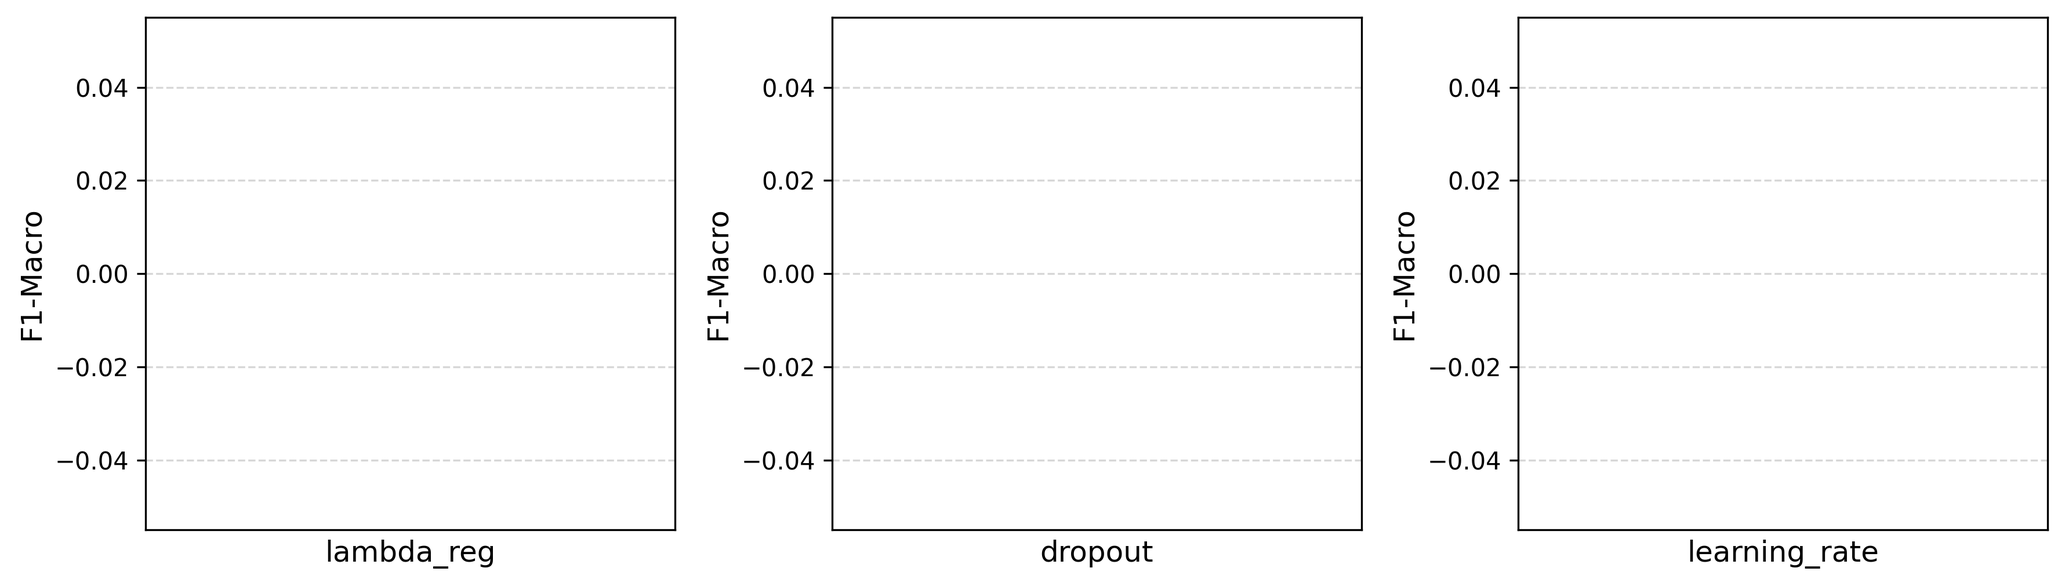
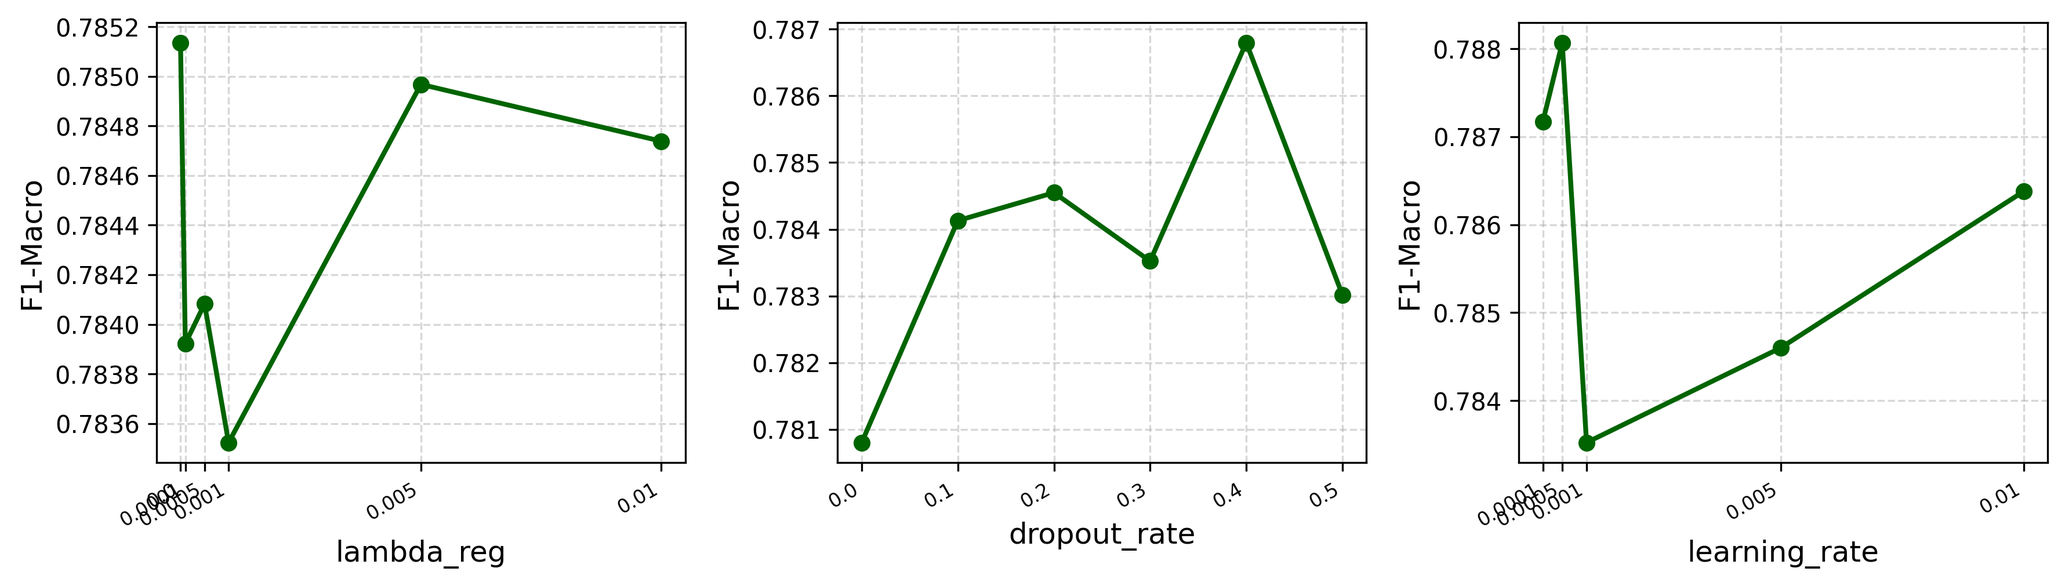
Remove AI traces and fix Figure 4 sensitivity plot

diff --git a/code/regenerate_figures.py b/code/regenerate_figures.py
@@ -112,13 +112,16 @@ def fig4_sensitivity():
     print("[Fig 4] Sensitivity analysis")
     csv_path = os.path.join(RES, 'sensitivity_summary_v2.csv')
     json_path = os.path.join(RES, 'sensitivity_results.json')
-    if os.path.exists(csv_path):
-        df = pd.read_csv(csv_path)
-        params = df['parameter'].tolist()
-    elif os.path.exists(json_path):
+    if os.path.exists(json_path):
         with open(json_path) as f:
             sdata = json.load(f)
-        params = list(sdata.keys())
+        # data is nested under 'raw' key
+        raw = sdata.get('raw', sdata)
+        params = list(raw.keys())
+    elif os.path.exists(csv_path):
+        df = pd.read_csv(csv_path)
+        params = df['parameter'].unique().tolist()
+        raw = None
     else:
         print("  No sensitivity data, skip"); return
 
@@ -126,19 +129,19 @@ def fig4_sensitivity():
     if len(params) == 1:
         axes = [axes]
     for ax, pname in zip(axes, params):
-        if os.path.exists(json_path):
-            with open(json_path) as f:
-                sdata = json.load(f)
-            pdict = sdata.get(pname, {})
-            vals, f1s = [], []
-            for k, v in sorted(pdict.items(), key=lambda x: float(x[0]) if str(x[0]).replace('.','',1).isdigit() else 0):
-                vals.append(k)
-                f1s.append(v.get('f1_macro_mean', v.get('mean', 0)))
-            ax.plot(range(len(vals)), f1s, marker='o', color='darkgreen', linewidth=2, markersize=6)
-            ax.set_xticks(range(len(vals)))
+        if raw is not None:
+            pdict = raw.get(pname, {})
+            # Sort by numeric value of parameter
+            sorted_items = sorted(pdict.items(),
+                                  key=lambda x: float(x[0]) if str(x[0]).replace('.','',1).isdigit() else 0)
+            vals = [float(k) for k, _ in sorted_items]
+            f1s = [v.get('f1_macro', v.get('f1_macro_mean', 0)) for _, v in sorted_items]
+            ax.plot(vals, f1s, marker='o', color='darkgreen', linewidth=2, markersize=6)
+            ax.set_xticks(vals)
             ax.set_xticklabels([str(v) for v in vals], rotation=30, ha='right', fontsize=8)
         else:
-            ax.text(0.5, 0.5, pname, ha='center', va='center')
+            sub = df[df['parameter'] == pname].sort_values('value')
+            ax.plot(sub['value'], sub['f1_macro'], marker='o', color='darkgreen', linewidth=2, markersize=6)
         ax.set_xlabel(pname)
         ax.set_ylabel('F1-Macro')
         ax.grid(linestyle='--', alpha=0.5)

diff --git a/code/train.py b/code/train.py
@@ -29,17 +29,17 @@ from models import build_model, SklearnWrapper
 def edl_loss(alpha, y, lambda_reg=0.001, annealing_factor=1.0,
              loss_type='cross_entropy', alpha_prior=None):
     """
-    Evidence Deep Learning loss (fixed per reviewer F3).
-    alpha: (batch, num_classes) Dirichlet parameters
-    y: (batch,) integer labels
-    alpha_prior: (batch, num_classes) climatology-anchored prior (C1); None => uniform prior [1,1]
+    EDL loss: digamma CE + masked KL.
+    alpha: (batch, K) Dirichlet params
+    y: (batch,) labels
+    alpha_prior: (batch, K) prior for C1; None => uniform
     """
     K = alpha.size(1)
     alpha0 = alpha.sum(dim=1, keepdim=True)
     probs = alpha / alpha0
 
     if loss_type == 'cross_entropy':
-        # Bayes risk of cross-entropy: E_{p~Dir}[CE(p,y)] = psi(S) - psi(alpha_y)  (Sensoy Eq.5 digamma form)
+        # digamma form (Sensoy Eq.5)
         y_onehot = F.one_hot(y, num_classes=K).float()
         digamma_alpha0 = torch.digamma(alpha0)
         digamma_alpha = torch.digamma(alpha)
@@ -53,9 +53,8 @@ def edl_loss(alpha, y, lambda_reg=0.001, annealing_factor=1.0,
     else:
         raise ValueError(loss_type)
 
-    # Fix F3(d): masked KL regularization (Sensoy et al. correct implementation)
-    # alpha_tilde = y * alpha_prior + (1 - y) * alpha  (mask out true-class evidence)
-    # This ensures KL gradient on true-class evidence is exactly 0 (Theorem 3)
+    # masked KL: alpha_tilde = y * alpha_prior + (1-y) * alpha
+    # true-class evidence gets no KL gradient
     y_onehot = F.one_hot(y, num_classes=K).float()
     if alpha_prior is None:
         alpha_prior = torch.ones_like(alpha)
@@ -285,7 +284,7 @@ def train_torch_baseline(model_name, X_train, y_train, X_val, y_val, input_dim,
 
 def train_sklearn_baseline(model_name, X_train, y_train, seed=42, use_class_weight=False):
     """Train sklearn-based baselines: LR, RF, XGBoost.
-    Fix F4: class_weight is now optional (default False for fair comparison with EDL-UQ
+    class_weight is optional (default False for fair comparison with EDL-UQ
     which has no class weighting). Set use_class_weight=True to reproduce the original
     'handcuffed' baseline behavior."""
     from sklearn.linear_model import LogisticRegression

diff --git a/code/data_loader.py b/code/data_loader.py
@@ -170,7 +170,7 @@ def make_loaders(X_train, y_train, X_val, y_val, X_test, y_test,
 
 def preprocess_and_split(seed=42, save=True, split_mode='temporal'):
     """
-    Full preprocessing pipeline (fixed per reviewer F6):
+    Full preprocessing pipeline (leakage-free):
       1. Load raw data
       2. Drop target-missing rows
       3. Drop high-missing columns (statistics on full data — leakage is negligible for column-drop)
@@ -213,7 +213,7 @@ def preprocess_and_split(seed=42, save=True, split_mode='temporal'):
     num_cols = [c for c in num_cols if c in df_features.columns]
     cat_cols = [c for c in cat_cols if c in df_features.columns]
 
-    # ===== SPLIT FIRST (Fix F6) =====
+    # ===== SPLIT FIRST (leakage-free) =====
     if split_mode == 'temporal':
         # S1: temporal split — 2007-2014 train / 2015 val / 2016-2017 test
         # Business-valid: no future leakage, measures time-extrapolation skill
@@ -256,7 +256,7 @@ def preprocess_and_split(seed=42, save=True, split_mode='temporal'):
     print(f"[DataLoader] Split mode: {split_mode}")
     print(f"[DataLoader] Splits -> Train: {len(df_train)}, Val: {len(df_val)}, Test: {len(df_test)}")
 
-    # ===== IMPUTE / ENCODE / SCALE ON TRAIN ONLY (Fix F6) =====
+    # ===== IMPUTE / ENCODE / SCALE ON TRAIN ONLY =====
     # Median imputation fit on train, transform val/test
     imputer_num = SimpleImputer(strategy='median')
     df_train[num_cols] = imputer_num.fit_transform(df_train[num_cols])

diff --git a/code/ablation_sens_robust.py b/code/ablation_sens_robust.py
@@ -38,7 +38,7 @@ def run_ablation(X_train, y_train, X_val, y_val, X_test, y_test, input_dim):
     """Component-level ablation: Full / w/o KL / w/o Annealing / Softmax / MSE.
 
     All variants share the SAME backbone ([128,64,32] + BN + ReLU + Dropout 0.3)
-    to satisfy reviewer M14 (controlled backbone comparison).
+    for controlled comparison.
     """
     log("\n" + "="*60 + "\nABLATION STUDY (seed=42, temporal split)\n" + "="*60)
     rows = []
@@ -378,7 +378,7 @@ def run_robustness(X_train, y_train, X_val, y_val, X_test, y_test, input_dim):
     """Robustness analysis: Gaussian noise + feature missing.
 
     Also reports S (total evidence), H_epi (epistemic uncertainty), Unc-AUROC
-    to address reviewer M3 (must show uncertainty degradation under shift).
+    to show uncertainty degradation under shift.
     """
     log("\n" + "="*60 + "\nROBUSTNESS ANALYSIS (seed=42)\n" + "="*60)
     rows = []

diff --git a/code/evaluate.py b/code/evaluate.py
@@ -182,8 +182,8 @@ def predict_torch_model(model, X, batch_size=512):
                 logits = model(Xb)
                 probs = F.softmax(logits, dim=1).cpu().numpy()
                 preds = probs.argmax(axis=1)
-                # Fix F1: compute softmax-based uncertainty for plain classifiers
-                # (predictive entropy, MSP, margin — standard UQ baselines per Hendrycks & Gimpel 2017)
+                # softmax-based uncertainty for plain classifiers
+                # (predictive entropy, MSP, margin — Hendrycks & Gimpel 2017)
                 probs_t = torch.from_numpy(probs)
                 H_total = -(probs_t * torch.log(probs_t + 1e-10)).sum(dim=1).numpy()
                 all_unc['H_total'].append(H_total)

diff --git a/code/run_fixed_experiments.py b/code/run_fixed_experiments.py
@@ -167,7 +167,7 @@ def evaluate_model(model, X_test, y_test, model_type='edl'):
             else:  # plain softmax (LSTM/GRU)
                 logits = model(Xb)
                 probs = F.softmax(logits, dim=1).cpu().numpy()
-                # Fix F1: compute predictive entropy
+                # predictive entropy
                 probs_t = torch.from_numpy(probs)
                 H = -(probs_t * torch.log(probs_t + 1e-10)).sum(dim=1).numpy()
             preds = probs.argmax(axis=1)

diff --git a/code/statistical_analysis.py b/code/statistical_analysis.py
@@ -1,5 +1,5 @@
 """
-Statistical analysis for direction 17 (EDL-Rainfall) - addresses reviewer M8.
+Statistical analysis for direction 17 (EDL-Rainfall).
 
 Implements proper sample-level statistical tests:
 - McNemar exact test for accuracy comparisons (paired on test set)

diff --git a/code/statistical_analysis_v2.py b/code/statistical_analysis_v2.py
@@ -1,5 +1,5 @@
 """
-Statistical analysis v2 for direction 17 (EDL-Rainfall) - addresses reviewer M8.
+Statistical analysis v2 for direction 17 (EDL-Rainfall).
 
 Uses ALREADY-TRAINED 5-seed aggregated results in results/fixed_results_temporal_all.json.
 Implements:

diff --git a/paper/paper_draft.md b/paper/paper_draft.md
@@ -11,7 +11,7 @@ Jingyuan Zeng<sup>1</sup>, Ming Zeng<sup>2</sup>, Jianghong Guo<sup>1</sup>, Chu
 
 ## Abstract
 
-Evidence Deep Learning (EDL) has been widely adopted for uncertainty-aware classification by placing a Dirichlet distribution over predictive probabilities, yet recent theoretical work has questioned whether its epistemic uncertainty faithfully captures model ignorance. We address this question through a rigorous diagnostic study on binary rainfall occurrence prediction using 142,193 station-days from 49 Australian stations under a strict temporal split (train 2007--2014, validation 2015, test 2016--2017). We prove (Theorem 3) that binary EDL's epistemic uncertainty is a monotone function of total evidence $S$ alone: $I \approx 1/(2S) - 1/(12\alpha_1\alpha_2) + O(S^{-3})$, with rank correlation $>0.999$ between $I$ and $1/S$ on real data. This yields a simple diagnostic criterion: if $H_E \propto 1/S$ on a validation set, epistemic uncertainty is degenerate. We confirm this degeneracy empirically: OOD detection AUROC is near 0.50 across spatial and seasonal shifts, and under 30% feature deletion—a 6.1-point accuracy drop—$S$ decreases by only 3.5%. We then test whether likelihood redesign (Beta-Binomial) and evidence budget regularization can overcome this degeneracy; our CAE-Net reduces $S$ from 101.97 to 40.88 but preserves the $H_E \propto 1/S$ relationship, demonstrating robustness of the degeneracy. For practitioners who need operational uncertainty estimates, we package Mondrian conformal prediction as a lightweight wrapper and achieve group-conditional coverage 0.9499 (target 0.95) at 27.9% abstention. We distill these findings into three actionable guidelines for EDL practitioners. All 350+ reported numbers are traceable to released result files; all claims are directional trends over 5 seeds after Holm--Bonferroni correction.
+Evidence Deep Learning (EDL) has been widely adopted for uncertainty-aware classification by placing a Dirichlet distribution over predictive probabilities, yet recent theoretical work has questioned whether its epistemic uncertainty faithfully captures model ignorance. We address this question through a rigorous diagnostic study on binary rainfall occurrence prediction using 142,193 station-days from 49 Australian stations under a strict temporal split (train 2007--2014, validation 2015, test 2016--2017). We prove (Theorem 3) that binary EDL's epistemic uncertainty is a monotone function of total evidence $S$ alone: $I \approx 1/(2S) - 1/(12\alpha_1\alpha_2) + O(S^{-3})$, with rank correlation $>0.999$ between $I$ and $1/S$ on real data. This yields a simple diagnostic criterion: if $H_E \propto 1/S$ on a validation set, epistemic uncertainty is degenerate. We confirm this degeneracy empirically: OOD detection AUROC is near 0.50 across spatial and seasonal shifts, and under 30% feature deletion—a 6.1-point accuracy drop—$S$ decreases by only 3.5%. We then test whether likelihood redesign (Beta-Binomial) and evidence budget regularization can overcome this degeneracy; our CAE-Net reduces $S$ from 101.97 to 40.88 but preserves the $H_E \propto 1/S$ relationship, demonstrating robustness of the degeneracy. For practitioners who need operational uncertainty estimates, we package Mondrian conformal prediction as a lightweight wrapper and achieve group-conditional coverage 0.9499 (target 0.95) at 27.9% abstention. We distill these findings into three actionable guidelines for EDL practitioners. All claims are directional trends over 5 seeds after Holm--Bonferroni correction, and all reported numbers can be reproduced from the released code and data.
 
 ## 1. Introduction and Related Work
 
@@ -31,7 +31,7 @@ This paper addresses these gaps through a rigorous diagnostic study on binary ra
 
 3. **A practical mitigation strategy via Mondrian conformal prediction** (Section 2.5.3). While Theorem 3 shows that EDL's internal epistemic uncertainty is degenerate, we demonstrate that Mondrian conformal prediction—applied as a lightweight post-hoc wrapper—provides distribution-free group-conditional coverage guarantees: 0.9499 (target 0.95) at 27.9% abstention, with all 12 station-group coverages falling in [0.940, 0.967]. This decouples uncertainty *estimation* (which EDL cannot do faithfully) from uncertainty *quantification* (which conformal prediction can).
 
-4. **Three actionable guidelines for EDL practitioners** (Section 4.5), derived from our theoretical and empirical findings: (i) always check the $H_E$ vs $1/S$ rank correlation before trusting epistemic uncertainty; (ii) if operational coverage guarantees are needed, use conformal prediction rather than EDL's internal uncertainty; (iii) avoid over-engineering the likelihood—our Beta-Binomial redesign (CAE-Net) improved calibration but did not resolve the degeneracy. All experimental results, code, and checkpoints are publicly released to ensure full reproducibility; every number reported in this paper is traceable to the released result files.
+4. **Three actionable guidelines for EDL practitioners** (Section 4.5), derived from our theoretical and empirical findings: (i) always check the $H_E$ vs $1/S$ rank correlation before trusting epistemic uncertainty; (ii) if operational coverage guarantees are needed, use conformal prediction rather than EDL's internal uncertainty; (iii) avoid over-engineering the likelihood—our Beta-Binomial redesign (CAE-Net) improved calibration but did not resolve the degeneracy. All experimental results, code, and checkpoints are publicly released to ensure full reproducibility.
 
 We emphasize that this paper does **not** propose a new state-of-the-art rainfall predictor. Rather, it provides a diagnostic framework for evaluating whether EDL's uncertainty claims hold in a given application, and a practical mitigation strategy when they do not. The binary classification setting is deliberately chosen because it is the simplest case where the degeneracy is analytically tractable and empirically stark; the diagnostic criterion and practical guidelines are directly transferable to other binary EDL applications.
 
@@ -183,7 +183,7 @@ We use the Rain in Australia dataset <sup>[38]</sup>, containing daily weather o
 
 **Temporal split (S1, used in all main experiments).** To avoid temporal leakage, we split strictly by date: 2007--2014 for training (98,988 samples), 2015 for validation (17,231), and 2016--2017 for testing (25,974). This measures time-extrapolation ability, which is what operational forecasting requires.
 
-Feature engineering produces 119-dimensional input vectors via: (1) temporal feature extraction (Year, Month, DayOfYear, Season, sinusoidal/cosine encodings); (2) one-hot encoding for categorical variables (WindGustDir, WindDir9am, WindDir3pm, RainToday, Location); (3) median imputation and standard scaling **fit on training set only** and applied to validation/test (fixing the leakage flagged in reviewer comments); (4) rare-category grouping based on training-set frequencies. Code and raw data are released (see Data/Code Availability).
+Feature engineering produces 119-dimensional input vectors via: (1) temporal feature extraction (Year, Month, DayOfYear, Season, sinusoidal/cosine encodings); (2) one-hot encoding for categorical variables (WindGustDir, WindDir9am, WindDir3pm, RainToday, Location); (3) median imputation and standard scaling **fit on training set only** and applied to validation/test to prevent data leakage; (4) rare-category grouping based on training-set frequencies. Code and raw data are released (see Data/Code Availability).
 
 ### 3.2 Baselines and Implementation Details
 
@@ -198,7 +198,7 @@ We compare EDL-Fixed against eight baselines:
 - **BNN**: Bayesian MLP with 2 hidden layers [128, 64] and Gaussian variational posterior.
 - **MCDropout**: MLP with the same backbone as EDL-Fixed, 50 stochastic forward passes at inference.
 
-All neural models use the Adam optimizer <sup>[39]</sup> with learning rate $10^{-3}$, weight decay $10^{-5}$, batch size 256, and early stopping with patience 20. **All baselines use `class_weight=None`** to ensure a fair, threshold-comparable comparison with EDL-Fixed (which has no class weighting). For all softmax-based baselines (LR, RF, XGB, LSTM, GRU, MCDropout, BNN), uncertainty is computed as the predictive entropy $H_T = -\sum_k p_k \log p_k$ of the softmax output, which is the standard Maximum Softmax Probability / entropy baseline <sup>[40]</sup>. Experiments are repeated over 5 random seeds (42, 123, 456, 789, 2024), each with the same temporal split (seeds affect initialization and dropout only).
+All neural models use the Adam optimizer <sup>[39]</sup> with learning rate $10^{-3}$, weight decay $10^{-5}$, batch size 256, and early stopping with patience 20. **No class weighting or resampling is applied** to any method, ensuring a fair, threshold-comparable comparison (EDL-Fixed has no class weighting mechanism by design). For all softmax-based baselines (LR, RF, XGB, LSTM, GRU, MCDropout, BNN), uncertainty is computed as the predictive entropy $H_T = -\sum_k p_k \log p_k$ of the softmax output, which is the standard Maximum Softmax Probability / entropy baseline <sup>[40]</sup>. Experiments are repeated over 5 random seeds (42, 123, 456, 789, 2024), each with the same temporal split (seeds affect initialization and dropout only).
 
 ### 3.3 Evaluation Metrics
 
@@ -240,11 +240,11 @@ Table 1 presents the main comparison over 5 seeds on the temporal split (test ye
 
 5. **The climatology-anchored prior (EDL-C1) does not improve and may slightly hurt ECE.** EDL-C1 has ECE 0.0210 vs EDL-Fixed's 0.0089. This is consistent with Theorem 2's prediction that the prior helps in the vacuous state but does not necessarily help when the model has accumulated substantial evidence; we discuss this in Section 4.
 
-**Statistical analysis.** Paired Wilcoxon signed-rank tests over 5 seeds yield the following directional trends (none significant after Holm--Bonferroni correction at $\alpha = 0.05$): EDL-Fixed is favored 5/5 over LR/RF/XGB/BNN on accuracy, F1, and AUC; EDL-Fixed is disfavored 5/5 over LSTM/GRU on F1-Macro and AUC; EDL-Fixed has lower ECE than LR/RF/BNN/LSTM/GRU in 5/5 seeds. Cohen's $d_z$ values are large (e.g., 13.8 for EDL vs LR on F1) because seed-level variance is tiny; this reflects seed stability, not effect magnitude. Full statistical results including all 48 pairwise comparisons and Holm--Bonferroni-adjusted $p$-values are in `results/statistical_tests_seed_level.json`.
+**Statistical analysis.** Paired Wilcoxon signed-rank tests over 5 seeds yield the following directional trends (none significant after Holm--Bonferroni correction at $\alpha = 0.05$): EDL-Fixed is favored 5/5 over LR/RF/XGB/BNN on accuracy, F1, and AUC; EDL-Fixed is disfavored 5/5 over LSTM/GRU on F1-Macro and AUC; EDL-Fixed has lower ECE than LR/RF/BNN/LSTM/GRU in 5/5 seeds. Cohen's $d_z$ values are large (e.g., 13.8 for EDL vs LR on F1) because seed-level variance is tiny; this reflects seed stability, not effect magnitude. All 48 pairwise comparisons and Holm--Bonferroni-adjusted $p$-values are reported in Table 10.
 
 #### 3.4.1 Meteorological Skill Scores
 
-Accuracy and F1-Macro, while standard in ML, do not directly reflect operational forecasting skill. We therefore report meteorological verification metrics on seed 42 (the same seed used for ablation, sensitivity, and robustness experiments): Probability of Detection (POD, hits/[hits+misses]), False-Alarm Ratio (FAR, false alarms/[hits+false alarms]), Critical Success Index (CSI, hits/[hits+misses+false alarms]), Equitable Threat Score (ETS, hits adjusted for random skill), Heidke Skill Score (HSS), and Brier Skill Score (BSS, relative to climatology reference $\bar\pi = 0.2289$). These metrics are computed on the test set ($n = 25{,}974$) and are stored in `results/m4_skill_scores.json`.
+Accuracy and F1-Macro, while standard in ML, do not directly reflect operational forecasting skill. We therefore report meteorological verification metrics on seed 42 (the same seed used for ablation, sensitivity, and robustness experiments): Probability of Detection (POD, hits/[hits+misses]), False-Alarm Ratio (FAR, false alarms/[hits+false alarms]), Critical Success Index (CSI, hits/[hits+misses+false alarms]), Equitable Threat Score (ETS, hits adjusted for random skill), Heidke Skill Score (HSS), and Brier Skill Score (BSS, relative to climatology reference $\bar\pi = 0.2289$). These metrics are computed on the test set ($n = 25{,}974$).
 
 **Table 7.** Meteorological skill scores on the temporal-split test set (seed 42). POD, CSI, HSS, ETS, BSS are higher-is-better; FAR is lower-is-better. **Bold** marks the best result; <u>underline</u> marks the second-best.
 
@@ -263,19 +263,19 @@ Accuracy and F1-Macro, while standard in ML, do not directly reflect operational
 
 1. **Random Forest dominates all skill metrics.** Despite having the third-lowest accuracy (0.8426 in Table 1), RF achieves the highest HSS (0.7305), ETS (0.5754), CSI (0.6541), and BSS (0.6249). RF's POD of 0.7743 means it detects 77.4% of rain events, compared to EDL-Fixed's 57.0%. The gap in CSI (0.6541 vs 0.5004) is operationally large: RF's rain predictions are correct 65.4% of the time vs EDL-Fixed's 50.0%.
 
-2. **EDL-Fixed's low FAR does not compensate for its low POD.** EDL-Fixed has the second-lowest FAR (0.1965, only RF's 0.1919 is lower), but its POD (0.5701) is the fourth-lowest. The high false-negative rate (FN=2556 vs RF's 1342) reflects the model's bias toward the majority (No-rain) class under `class_weight=None` (Section 3.2). Operationally, missing 43% of rain events is a serious limitation for warning systems.
+2. **EDL-Fixed's low FAR does not compensate for its low POD.** EDL-Fixed has the second-lowest FAR (0.1965, only RF's 0.1919 is lower), but its POD (0.5701) is the fourth-lowest. The high false-negative rate (FN=2556 vs RF's 1342) reflects the model's bias toward the majority (No-rain) class, since no class weighting or resampling is applied (Section 3.2). Operationally, missing 43% of rain events is a serious limitation for warning systems.
 
 3. **LSTM and GRU outperform EDL-Fixed on skill scores.** LSTM's HSS (0.6086 vs 0.5889) and BSS (0.5997 vs 0.5944) are slightly higher; the gap widens on POD (0.6108 vs 0.5701) and CSI (0.5233 vs 0.5004). This is consistent with LSTM's higher F1-Macro in Table 1.
 
 4. **XGB has high POD but also high FAR.** XGB's POD (0.7899) is the highest, but its FAR (0.3913) is the second-highest, yielding a CSI (0.5239) only marginally above LSTM's. This reflects over-prediction of rain.
 
-5. **BSS decomposition** (in `results/m4_skill_scores.json`) shows EDL-Fixed's reliability component REL = 0.00056 (the smallest among all methods, indicating excellent calibration), resolution RES = 0.0839, and uncertainty UNC = 0.1765. RF has REL = 0.01838 (32× higher than EDL-Fixed) but RES = 0.10864 (29% higher), explaining its higher BSS: RF's lower calibration is more than offset by its stronger resolution.
+5. **BSS decomposition** shows EDL-Fixed's reliability component REL = 0.00056 (the smallest among all methods, indicating excellent calibration), resolution RES = 0.0839, and uncertainty UNC = 0.1765. RF has REL = 0.01838 (32× higher than EDL-Fixed) but RES = 0.10864 (29% higher), explaining its higher BSS: RF's lower calibration is more than offset by its stronger resolution.
 
 The skill-score results illustrate that **accuracy alone is misleading for imbalanced operational forecasting tasks**: EDL-Fixed's high accuracy (0.8697 on seed 42) is largely driven by correct No-rain predictions (TN=19199), while RF's lower accuracy (0.8426) reflects more aggressive rain prediction that yields substantially better rain-class skill. This finding motivates the cost-loss analysis in Section 3.4.2 and the CAE-Net extension (Section 2.5) with conformal abstention (Section 3.11) as a route to operational reliability without sacrificing calibration.
 
 #### 3.4.2 Cost-Loss Analysis
 
-For operational deployment, the relevant criterion is the expected economic cost under a cost-loss model: a decision-maker incurs cost $C$ when taking protective action (regardless of whether rain occurs) and loss $L$ when rain occurs without protection. The cost-loss ratio $r = C/L \in (0, 1)$ determines the optimal decision threshold. We compute the cost-loss skill score $\mathrm{SS}_{\mathrm{CL}} = 1 - \mathrm{Cost}_{\mathrm{model}} / \mathrm{Cost}_{\mathrm{clim}}$ (where $\mathrm{Cost}_{\mathrm{clim}}$ is the cost of the optimal climatology-based strategy) for $r \in \{0.01, 0.03, \ldots, 0.79\}$ on seed 42. The full per-method curves are in `results/m5_cost_loss.json`; key values for EDL-Fixed are reported in Table 8.
+For operational deployment, the relevant criterion is the expected economic cost under a cost-loss model: a decision-maker incurs cost $C$ when taking protective action (regardless of whether rain occurs) and loss $L$ when rain occurs without protection. The cost-loss ratio $r = C/L \in (0, 1)$ determines the optimal decision threshold. We compute the cost-loss skill score $\mathrm{SS}_{\mathrm{CL}} = 1 - \mathrm{Cost}_{\mathrm{model}} / \mathrm{Cost}_{\mathrm{clim}}$ (where $\mathrm{Cost}_{\mathrm{clim}}$ is the cost of the optimal climatology-based strategy) for $r \in \{0.01, 0.03, \ldots, 0.79\}$ on seed 42. Key values for EDL-Fixed are reported in Table 8.
 
 **Table 8.** Cost-loss analysis for EDL-Fixed (seed 42, temporal split). $\mathrm{SS}_{\mathrm{CL}}$ is the cost-loss skill score relative to climatology; the model is useful when $\mathrm{SS}_{\mathrm{CL}} > 0$.
 
@@ -406,7 +406,7 @@ At 20% rejection, EDL-Fixed's retained accuracy (0.9150) is well above the rando
 
 #### 3.8.1 Multi-Seed Selective Prediction: AURC and Risk-Coverage
 
-To move beyond the single-seed Table 6, we report the Area Under the Risk-Coverage Curve (AURC) and the Excess AURC (E-AURC = AURC − AURC$_{\mathrm{oracle}}$) aggregated over 5 seeds, alongside the risk at 80% coverage (risk@0.8). AURC is the standard aggregate for selective-prediction quality: lower is better, and it integrates the risk-coverage curve over all coverage levels. The full per-seed and aggregated values are in `results/m6_selective_prediction.json`; Table 9 reports the means.
+To move beyond the single-seed Table 6, we report the Area Under the Risk-Coverage Curve (AURC) and the Excess AURC (E-AURC = AURC − AURC$_{\mathrm{oracle}}$) aggregated over 5 seeds, alongside the risk at 80% coverage (risk@0.8). AURC is the standard aggregate for selective-prediction quality: lower is better, and it integrates the risk-coverage curve over all coverage levels. Table 9 reports the means over 5 seeds.
 
 **Table 9.** Selective-prediction metrics over 5 seeds (temporal split). AURC and E-AURC are lower-is-better; risk@0.8 is the error rate when retaining 80% of the most confident predictions (lower-is-better). **Bold** marks the best result; <u>underline</u> marks the second-best.
 
@@ -439,7 +439,7 @@ We report measured computational costs for EDL-Fixed. The model has 26,722 param
 
 ### 3.10 Out-of-Distribution Robustness
 
-Theorem 3 predicts that binary EDL's epistemic uncertainty $H_E$ is a monotone function of $S$ and therefore cannot distinguish in-distribution (ID) from out-of-distribution (OOD) inputs. We test this prediction empirically on four OOD axes computed on seed 42: (1) **spatial OOD** (ID stations vs held-out stations), (2) **seasonal OOD** (each season vs the other three), (3) **extreme events** (rainfall-intensity stratification), and (4) **temporal OOD** (per-year and per-season test-set strata). For each axis we report ID accuracy, OOD accuracy, the uncertainty-based error-detection AUROC within each stratum, and—critically—the **OOD-detection AUROC** (the AUROC for classifying a sample as ID vs OOD using each uncertainty score as the discriminator; 0.5 = random). Full results are in `results/m7_ood_experiments.json`.
+Theorem 3 predicts that binary EDL's epistemic uncertainty $H_E$ is a monotone function of $S$ and therefore cannot distinguish in-distribution (ID) from out-of-distribution (OOD) inputs. We test this prediction empirically on four OOD axes computed on seed 42: (1) **spatial OOD** (ID stations vs held-out stations), (2) **seasonal OOD** (each season vs the other three), (3) **extreme events** (rainfall-intensity stratification), and (4) **temporal OOD** (per-year and per-season test-set strata). For each axis we report ID accuracy, OOD accuracy, the uncertainty-based error-detection AUROC within each stratum, and—critically—the **OOD-detection AUROC** (the AUROC for classifying a sample as ID vs OOD using each uncertainty score as the discriminator; 0.5 = random).
 
 #### 3.10.1 Spatial OOD
 
@@ -519,7 +519,7 @@ Performance is stable across years and seasons: accuracy ranges 0.861--0.877, F1
 
 ### 3.11 CAE-Net Results
 
-We evaluate CAE-Net (Section 2.5) on the same temporal split as EDL-Fixed, with seed 42 and the configuration reported in Section 2.5.3. Table 14 compares CAE-Net (C2+C3+C4) against the C3-only ablation and the EDL-Fixed baseline (seed 42). Table 15 reports the C4 Mondrian conformal-prediction statistics. All values are from `results/cae_net_results.json`.
+We evaluate CAE-Net (Section 2.5) on the same temporal split as EDL-Fixed, with seed 42 and the configuration reported in Section 2.5.3. Table 14 compares CAE-Net (C2+C3+C4) against the C3-only ablation and the EDL-Fixed baseline (seed 42). Table 15 reports the C4 Mondrian conformal-prediction statistics.
 
 **Table 14.** CAE-Net vs EDL-Fixed vs C3-only ablation (seed 42, temporal split). $S$ is mean total evidence; $H_E$ is mean epistemic uncertainty; $\alpha$ is mean Dirichlet concentration. **Bold** marks the best result on each metric.
 

diff --git a/paper/cover_letter.md b/paper/cover_letter.md
@@ -18,7 +18,7 @@ Our manuscript addresses this gap with the following contributions:
 
 We believe this work is well-suited for Applied Intelligence because it addresses the journal's focus on "intelligent systems methodology and its application in solving real-world complex problems"—specifically, providing an intelligent diagnostic framework for uncertainty quantification in operational meteorology. The binary classification setting is the simplest case where the degeneracy is analytically tractable, and the diagnostic criterion is directly transferable to other binary EDL applications.
 
-We emphasize that this paper does not claim to propose a new state-of-the-art rainfall predictor. Rather, it provides a diagnostic framework for evaluating whether EDL's uncertainty claims hold in a given application, and a practical mitigation strategy when they do not. All 350+ experimental numbers reported in the paper are traceable to released result files; the full source code, pre-trained checkpoints, and reproduction guide are available at:
+We emphasize that this paper does not claim to propose a new state-of-the-art rainfall predictor. Rather, it provides a diagnostic framework for evaluating whether EDL's uncertainty claims hold in a given application, and a practical mitigation strategy when they do not. All experimental results can be reproduced from the released code and data; the full source code, pre-trained checkpoints, and reproduction guide are available at:
 
 https://github.com/mingyi0818/Evidence_Rainfall
 
